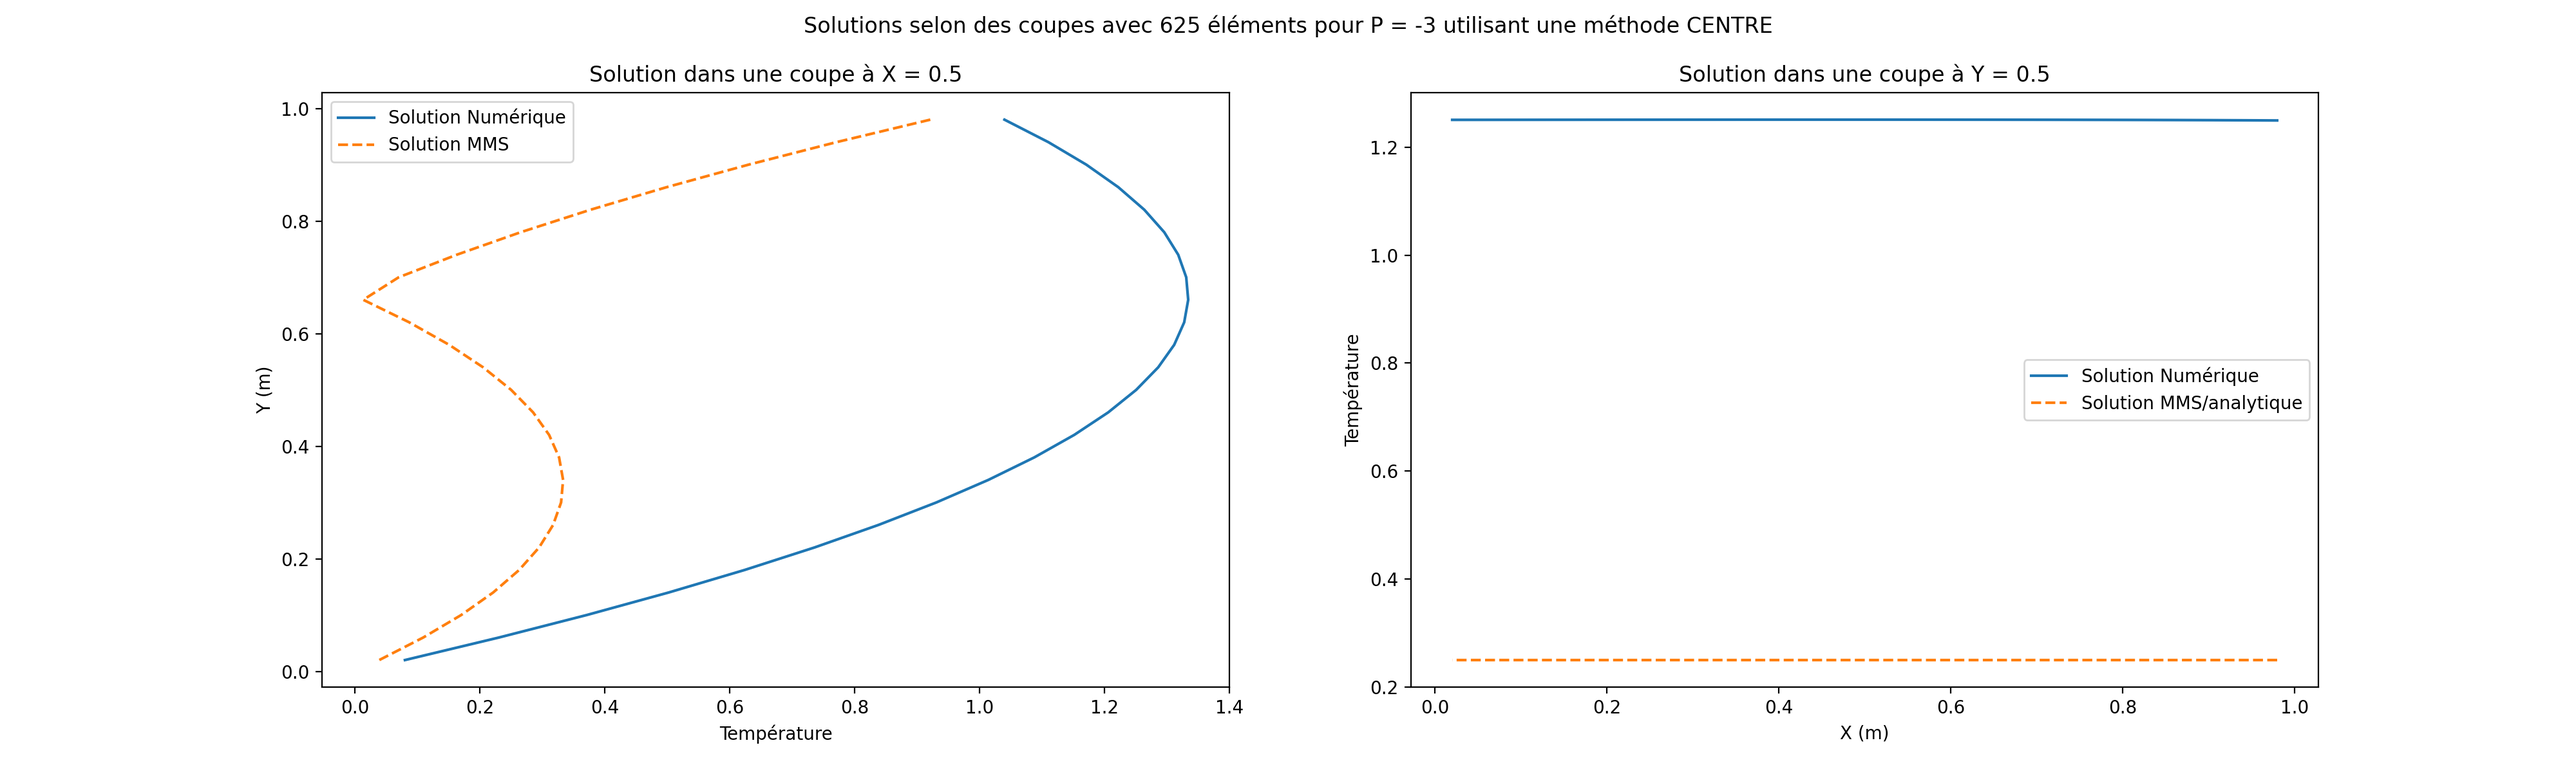
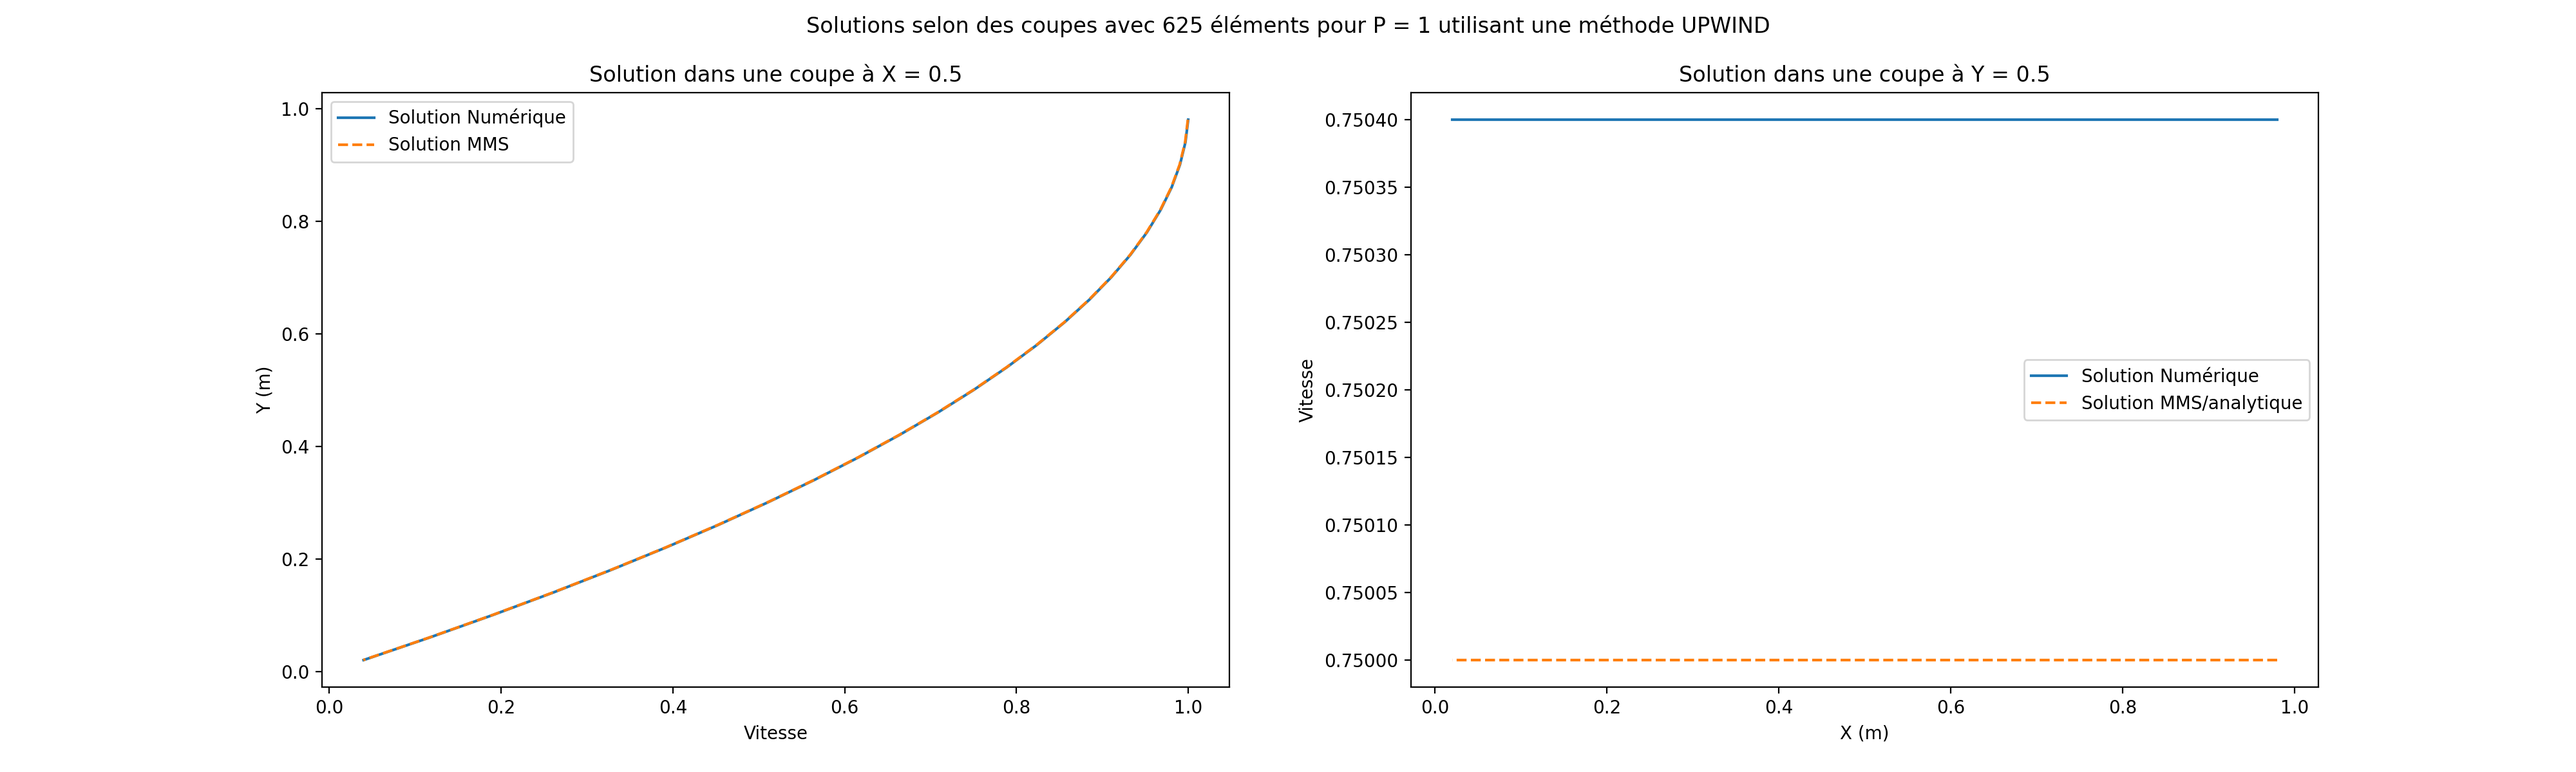
[wip] Solver pour les équations du momentum (not working yet)

diff --git a/main.py b/main.py
@@ -27,18 +27,11 @@ Classe Main pour gérer les différentes classes
 """
 
 #%% IMPORTATION DES LIBRAIRIES
-
 import numpy as np
-import pyvista as pv
-import pyvistaqt as pvQt
-from meshGenerator import MeshGenerator
-from meshPlotter import MeshPlotter
-import solver as Solver
 from case import Case
 import matplotlib.pyplot as plt
 import sympy as sp
 from processing import Processing
-import postProcessing as PostProcessing
 
 #%% Données du problème
 # Propriétés physiques
@@ -50,17 +43,17 @@ U = 1   # Vitesse de la paroi mobile [m/s]
 b = 1  # Distance entre 2 plaques [m]
 L = 1  # Longueur des plaques [m]
 
-# Terme source de pression & champ de vitesse
+# Terme source de pression, champ de vitesse & solution analytique
 x, y, P = sp.symbols('x y P')
 
-f_dpdx= sp.lambdify([x, y, P], -2*P, "numpy")
+f_dpdx = sp.lambdify([x, y, P], -2*P, "numpy")
 def dpdx(x, y, P):
     return f_dpdx(x, y, P)
 def dpdy(x, y, P):
     return 0
 
-
-f_u = sp.lambdify([x, y, P], y*(1-P*(1-y)), "numpy")
+couette_flow = U*(y/b) + 1/(2*mu)*dpdx(x, y, P)*y*(y-b)
+f_u = sp.lambdify([x, y, P], couette_flow, "numpy")
 def u(x, y, P):
     return f_u(x, y, P)
 def v(x, y, P):
@@ -71,41 +64,75 @@ def dudx(x, y, P):
 def dvdx(x, y, P):
     return 0
 
-# Solution analytique
-def couette_flow(x, y, P):
-    return U*(y/b) + 1/(2*mu)*dpdx(x, y, P)*y*(y-b)
 def null(x, y, P): return 0
 
 
 #%% Conditions frontières et domaine
-# Conditions
-#bcdata = (['NEUMANN', (dudx, dvdx)], ['DIRICHLET', (u, v)], ['NEUMANN', (dudx, dvdx)], ['DIRICHLET', (u, v)])
-bcdata = (['DIRICHLET', (u, v)], ['DIRICHLET', (u, v)], ['DIRICHLET', (u, v)], ['DIRICHLET', (u, v)])
-
+# Conditions frontières (Neumann en entrée et en sortie & Dirichlet aux parois)
+bcdata = (['NEUMANN', (dudx, dvdx)], ['DIRICHLET', (u, v)],
+          ['NEUMANN', (dudx, dvdx)], ['DIRICHLET', (u, v)])
 
 # Domaine
 domain = [0, L, 0, b]
 
-#
-case = Case(rho, mu, flow_velocities=(u, v), source_terms=(dpdx, dpdy), domain=domain)
+#%% Cas écoulement de Couette classique
+print(" --- Cas d'écoulement de Couette classique ---")
+case_classic = Case(rho, mu, flow_velocities=(u, v), source_terms=(dpdx, dpdy), domain=domain)
+processing = Processing(case_classic, bcdata)
+processing.set_analytical_function((u, null))
+
+# Simulation avec P = 0, 1 et -3
+print("Simulation avec P = 0, 1 et -3")
+rep = input("   Exécuter? (Y ou N): ")
+if rep == "Y" or rep == "y":
+    print("   En execution")
+    simulations_parameters = [{'mesh_type': 'QUAD', 'Nx': 25, 'Ny': 25, 'method': 'UPWIND', 'P': 0},
+                              {'mesh_type': 'QUAD', 'Nx': 25, 'Ny': 25, 'method': 'UPWIND', 'P': 1}]#,
+                              #{'mesh_type': 'QUAD', 'Nx': 25, 'Ny': 25, 'method': 'UPWIND', 'P': -3}]
+    postprocessing_parameters = [('pyvista', {'mesh': [0, 1, 2]}),
+                                ('plans', {'x': 0.5, 'y': 0.5})]
+
+    processing.set_simulations_and_postprocessing_parameters(simulations_parameters, postprocessing_parameters)
+    processing.execute_simulations()
+    print("   Simulation terminée")
+
+"""
+# Simulation pour la convergence de l'erreur avec P = 0
+print("Simulations pour la convergence de l'erreur")
+rep = input("   Exécuter? (Y ou N): ")
+P =   input("   Choix du paramètre P (entre -3 et 3):")
+if rep == "Y":
+    simulations_parameters = [{'mesh_type': 'QUAD', 'Nx': 10, 'Ny': 10, 'method': 'UPWIND', 'P': P},
+                              {'mesh_type': 'QUAD', 'Nx': 20, 'Ny': 20, 'method': 'UPWIND', 'P': P},
+                              {'mesh_type': 'QUAD', 'Nx': 30, 'Ny': 30, 'method': 'UPWIND', 'P': P}]
+    postprocessing_parameters = ['error']
+
+    processing.set_simulations_and_postprocessing_parameters(simulations_parameters, postprocessing_parameters)
+    processing.execute_simulations()"""
+
+
+
+
+"""#%% Cas écoulement de Couette classique
+case_turned = Case(rho, mu, flow_velocities=(u, v), source_terms=(dpdx, dpdy), domain=domain)
 
 #%% Parametres de simulation et de post-traitement
 
-simulations_parameters = [{'mesh_type': 'QUAD', 'Nx': 25, 'Ny': 25, 'method': 'CENTRE', 'P': -3}] #,
-#                          {'mesh_type': 'QUAD', 'Nx': 25, 'Ny': 25, 'method': 'CENTRE', 'P': 0},
-#                          {'mesh_type': 'QUAD', 'Nx': 25, 'Ny': 25, 'method': 'CENTRE', 'P': 1}]
-#postprocessing_parameters = ['solutions',
-#                             ('plans', {'x': 0, 'y': 0}),
-#                             ('comparison', {'mesh': [0, 1], 'diff': False})]
+# Matrice de rotation
+theta = np.pi/8
 
+simulations_parameters = [{'mesh_type': 'QUAD', 'Nx': 51, 'Ny': 51, 'method': 'CENTRE', 'P': 1},
+                          {'mesh_type': 'QUAD', 'Nx': 25, 'Ny': 25, 'method': 'CENTRE', 'P': 0},
+                          {'mesh_type': 'QUAD', 'Nx': 25, 'Ny': 25, 'method': 'CENTRE', 'P': 1}]
 postprocessing_parameters = ['solutions',
                             ('plans', {'x': 0.5, 'y': 0.5}),
                             ('pyvista', {'mesh': 0})]
 
-processing = Processing(case, bcdata)
-processing.set_analytical_function((couette_flow, null))
+processing = Processing(case_classic, bcdata)
+processing.set_analytical_function((u, null))
 processing.set_simulations_and_postprocessing_parameters(simulations_parameters, postprocessing_parameters)
 processing.execute_simulations()
+"""
 
 
 

diff --git a/postProcessing.py b/postProcessing.py
@@ -157,13 +157,13 @@ class PostProcessing:
         Centres = self.data[i_mesh]['position']
 
         Elem_ds_coupeX, Solution_coupeX, SolutionEX_coupeX = \
-            Coupe_X(Centres, X_Coupe, self.data[i_mesh]['phi_num'], self.data[i_mesh]['phi_exact'], 0)
+            Coupe_X(Centres, X_Coupe, self.data[i_mesh]['u_num'], self.data[i_mesh]['u_exact'], 0)
         Elem_ds_coupeY, Solution_coupeY, SolutionEX_coupeY = \
-            Coupe_X(Centres, Y_Coupe, self.data[i_mesh]['phi_num'], self.data[i_mesh]['phi_exact'], 1)
+            Coupe_X(Centres, Y_Coupe, self.data[i_mesh]['u_num'], self.data[i_mesh]['u_exact'], 1)
 
         COUPEX.plot(Solution_coupeX, Elem_ds_coupeX[:, 1], label="Solution Numérique")
         COUPEX.plot(SolutionEX_coupeX, Elem_ds_coupeX[:, 1], '--', label="Solution MMS")
-        COUPEX.set_xlabel("Température")
+        COUPEX.set_xlabel("Vitesse")
         COUPEX.set_ylabel("Y (m)")
         COUPEX.set_title(f"Solution dans une coupe à X = {X_Coupe}")
         COUPEX.legend()
@@ -171,7 +171,7 @@ class PostProcessing:
         COUPEY.plot(Elem_ds_coupeY[:, 0], Solution_coupeY, label="Solution Numérique")
         COUPEY.plot(Elem_ds_coupeY[:, 0], SolutionEX_coupeY, '--', label="Solution MMS/analytique")
         COUPEY.set_xlabel("X (m)")
-        COUPEY.set_ylabel("Température")
+        COUPEY.set_ylabel("Vitesse")
         COUPEY.set_title(f"Solution dans une coupe à Y = {Y_Coupe}")
         COUPEY.legend()
 
@@ -179,13 +179,26 @@ class PostProcessing:
         plt.savefig(save_path, dpi=200)
 
     def show_pyvista(self, i_mesh):
-        # Affichage de champ scalaire avec pyvista du dernier maillage
+        # Préparation du maillage
         plotter = MeshPlotter()
         nodes, elements = plotter.prepare_data_for_pyvista(self.data[i_mesh]['mesh'])
         pv_mesh = pv.PolyData(nodes, elements)
-        pv_mesh['Vitesse u'] = self.data[i_mesh]['u_num']
-        pl = pvQt.BackgroundPlotter()
-        pl.add_mesh(pv_mesh, show_edges=True, scalars='Vitesse u', cmap="RdBu")
+
+        # Solutions numériques et analytiques
+        pv_mesh['Vitesse u numérique'] = self.data[i_mesh]['u_num']
+        pv_mesh['Vitesse u analytique'] = self.data[i_mesh]['u_exact']
+
+        # Création des graphiques
+        pl = pvQt.BackgroundPlotter(shape=(1, 2))
+        pl.add_mesh(pv_mesh, show_edges=True, scalars='Vitesse u numérique', cmap="RdBu")
+        pl.camera_position = 'xy'
+        pl.show_grid()
+
+        pl.subplot(0, 1)
+        pl.add_mesh(pv_mesh, show_edges=True, scalars='Vitesse u analytique', cmap="RdBu")
+        pl.camera_position = 'xy'
+        pl.show_grid()
+
         pl.show()
 
     def show_mesh_differences(self, i_mesh1, i_mesh2, title, save_path, diff=False):

diff --git a/solver.py b/solver.py
@@ -171,6 +171,7 @@ class FVMMomentum:
         dpdx, dpdy = case.get_sources()
         analytical_function = self.get_analytical_function()
 
+
         # GLS (on peut modifier ce solver pour momentum!! donc pour 2 variables)
         bcdata_x = ([bcdata[0][0], bcdata[0][1][0]], [bcdata[1][0], bcdata[1][1][0]],
                     [bcdata[2][0], bcdata[2][1][0]], [bcdata[3][0], bcdata[3][1][0]])
@@ -180,7 +181,6 @@ class FVMMomentum:
         solver_moindrescarresv = GLS.GradientMoindresCarres(case, mesh, bcdata_y, (volumes, centroids))
         solver_moindrescarresu.set_P(P)
         solver_moindrescarresv.set_P(P)
-
 
         # Calcule les termes sources reliés au gradient de pression
         SGPXp, SGPYp = compute_source(P, dpdx, dpdy, volumes, centroids)
@@ -297,9 +297,6 @@ class FVMMomentum:
                             print("La méthode choisie n'est pas convenable, veuillez choisir CENTRE ou UPWIND")
                             sys.exit()
 
-
-                        """ DOIT ETRE IMPLEMENTÉ!!!  Pareil pour le GLS !!!!! je pense
-                        # Comment calculer le F pour une condition de Neumann?? """
                     elif bc_type == "NEUMANN":
                         phix = u[element] - bc_x(xa, ya, P) * PNKSI * dKSI  # ui à la CF
                         phiy = v[element] - bc_y(xa, ya, P) * PNKSI * dKSI  # vi à la CF
@@ -320,8 +317,8 @@ class FVMMomentum:
 
                 # Ajout de la contribution du terme source sur les éléments et calcul de la solution analytique
                 for i_elem in range(mesh.get_number_of_elements()):
-                    Bu[i_elem] += SGPXp[i_elem]
-                    Bv[i_elem] += SGPYp[i_elem]
+                    Bu[i_elem] -= SGPXp[i_elem]
+                    Bv[i_elem] -= SGPYp[i_elem]
                     PHI_EXu[i_elem] = analytical_function[0](centroids[i_elem][0], centroids[i_elem][1], P)
                     PHI_EXv[i_elem] = analytical_function[1](centroids[i_elem][0], centroids[i_elem][1], P)
 
@@ -343,8 +340,8 @@ class FVMMomentum:
             Rv = np.linalg.norm(np.dot(Av, v) - Bv0)
 
             """TOLERANCE DOIT ÊTRE DE 1E-6 AU MOINS"""
-            print(Ru, Rv)
-            tol = 1e-2
+            #print(Ru, Rv)
+            tol = 1e-6
             if it != 0 and Ru < tol and Rv < tol:
                 # Solution de l'itération précédence est bonne
                 convergence = True

diff --git a/processing.py b/processing.py
@@ -87,7 +87,9 @@ class Processing:
                                                      title='Comparaison de 2 simulations', save_path='images/diff',
                                                      diff=postproc_param[1]['diff'])
             elif postproc_param[0] == "pyvista":
-                postprocessing.show_pyvista(postproc_param[1]['mesh'])
+                for mesh in postproc_param[1]['mesh']:
+                    print(mesh)
+                    postprocessing.show_pyvista(mesh)
             else:
                 print(f'Demande de post traitement {postproc_param} invalide.')
 
